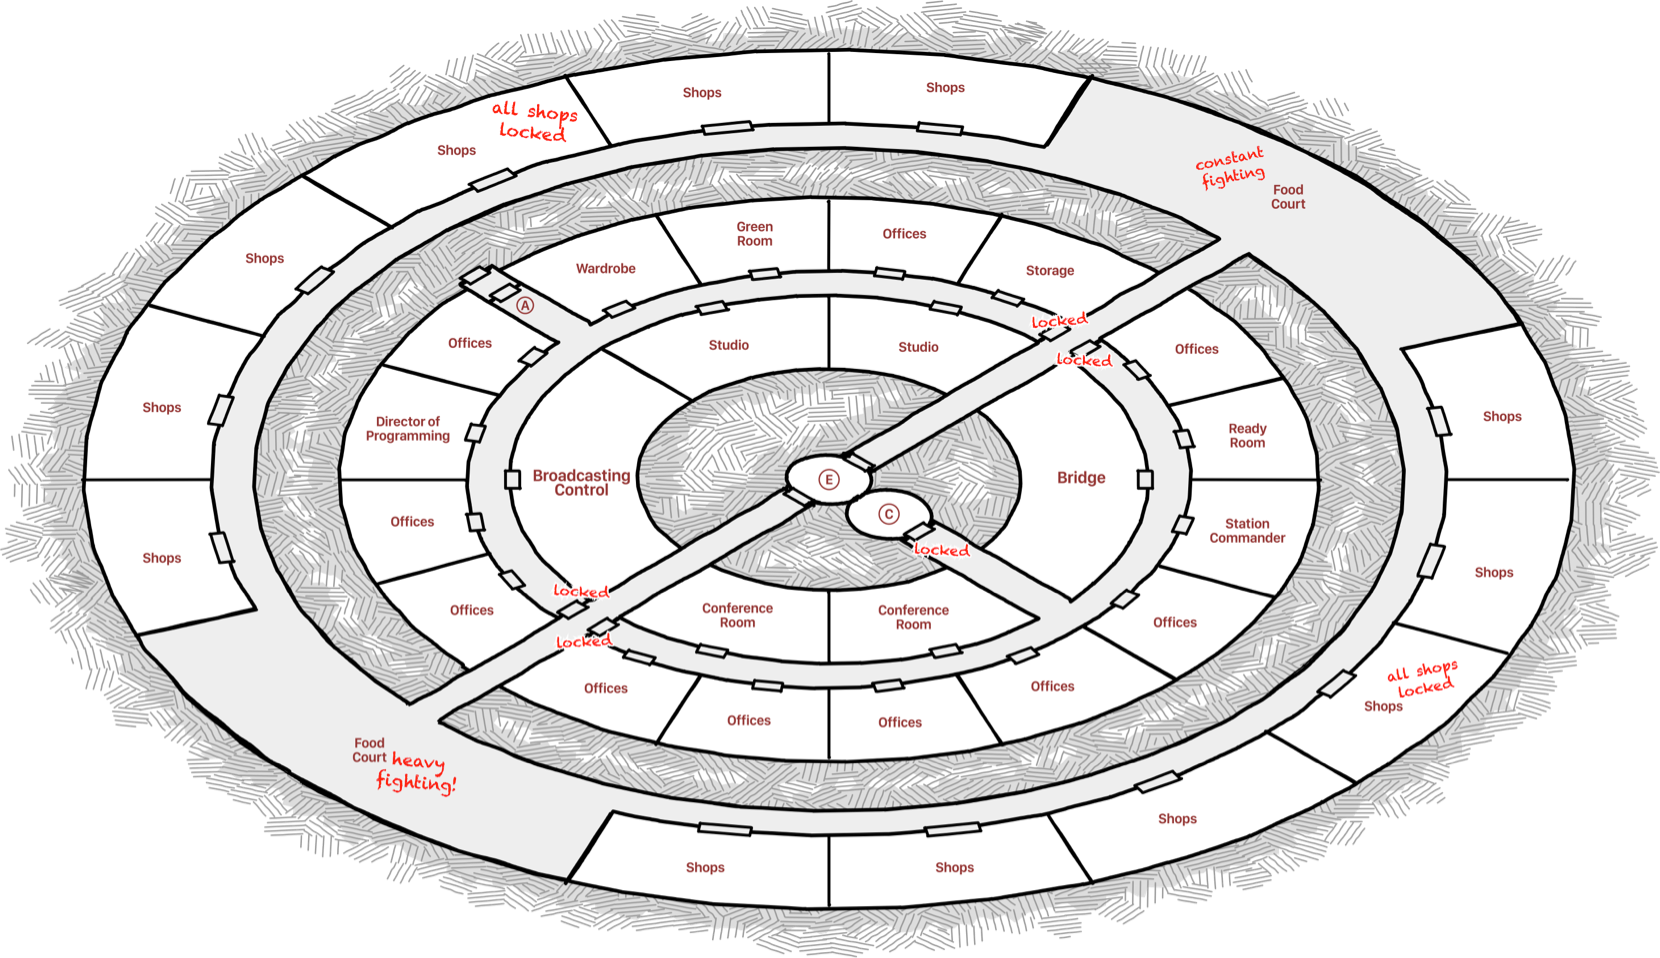
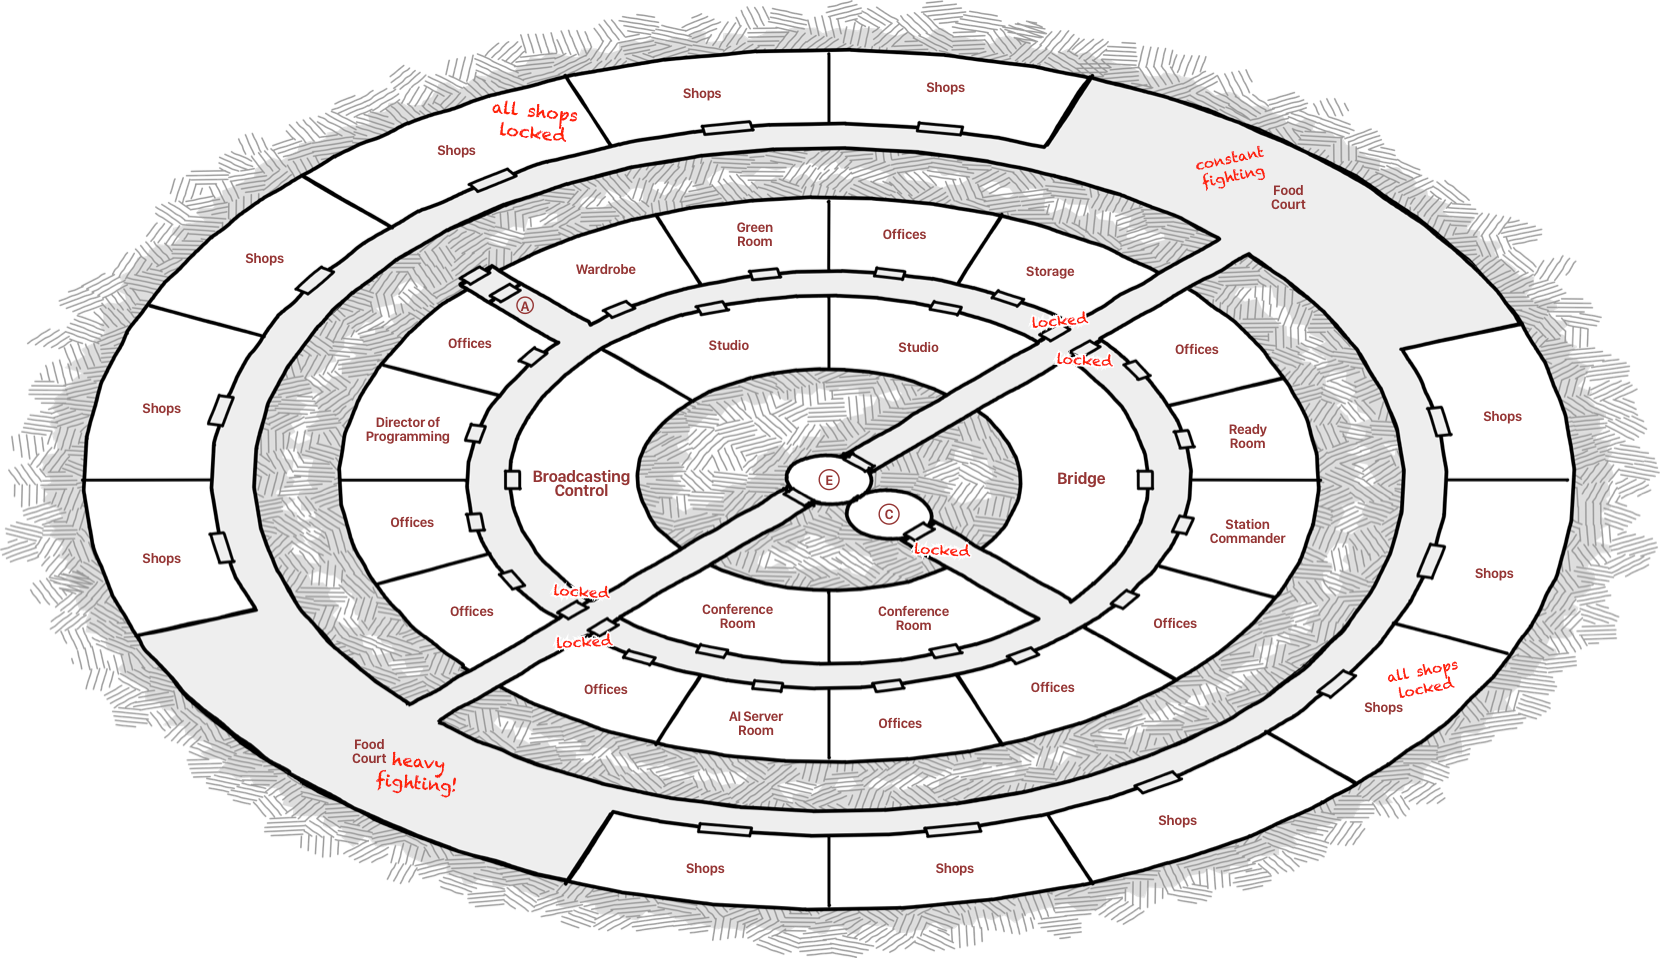
updated map to add ai server room

diff --git a/src/adventures/history-channel/part-2.md b/src/adventures/history-channel/part-2.md
@@ -92,6 +92,8 @@ She is always surrounded by a squad of at least as many Security Guards as there
 
 The Security Chief uses the stats for a [**Half-Red Dragon Veteran**](https://www.dndbeyond.com/monsters/half-red-dragon-veteran), and carries a [**_Laser Rifle_**](https://www.dndbeyond.com/equipment/laser-rifle). (Replace the fire breath attack with a single-shot flamethrower attached to her rifle using the same stats.)
 
+TODO: if defeated, effect on security forces
+
 **Personality.** Sarcastic, threatening, sadistic
 
 **Quote.** _“Can’t you idiots do anything right? Honestly, it’s one orc how hard can it be.”_
@@ -184,7 +186,7 @@ The Strategist uses the stats for a [**Cultist**](https://www.dndbeyond.com/mons
 
 **Quote.** _“Oh, um, while you’re inside, don’t use the computer to look yourself up. It’s… upsetting.”_
 
-**Suggested Names.** Lauren Breem, Vivian Renaud, Margaret Lynch
+**Suggested Names.** Laurel Breem, Vivian Renaud, Margaret Lynch
 
 <aside class="block-torn-paper">
 

diff --git a/src/adventures/history-channel/deck-4.md b/src/adventures/history-channel/deck-4.md
@@ -30,7 +30,6 @@ Deck Four is a double ring. The tourist shops of the outer ring Promenade have a
       height="479"
       />
   </a>
-  <figcaption>TODO: Update map to add AI server room</figcaption>
 </figure>
 
 ## Outer Ring Promenade
